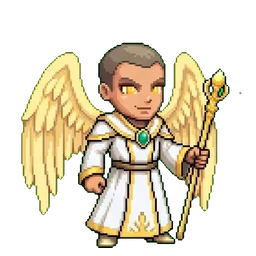
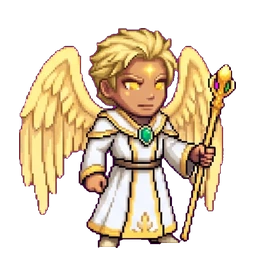
Celestial erkek Cleric ID1-6 ve ID8 kabul edilen sayfadan yeniden kesildi; yeniden çizilmiş sayfanın bütün hücreleri kesilir (cc-kesim tum_hucreler, test); taç karakter ekranında kırpılmaz
- cc-kesim.py: defterde yenidenCizilmis işaretli sayfa kuralı, adımlar 'yeniden' ve 'hucre', defter UTF-8/LF
- hale-konum.json yalnız erkek Cleric kayıtları (yeni saç yüksekliği); karakter-kucuk ad listesi alır
- CharacterFigure çerçevesi yıldız tacını kapsar (crownBox); as1cGorunum testine taç kutusu denetimi eklendi
- gorsel-dokum --grup sonrası --yeniden bütün grupları kullanır; döküm ve Celestial denetim raporu güncel (0 eski kesim)

diff --git a/src/data/ccKesimYenidenCizilmis.test.ts b/src/data/ccKesimYenidenCizilmis.test.ts
@@ -1,0 +1,37 @@
+/**
+ * 2026-11-22: yeniden çizilmiş (kullanıcının kabul ettiği güncel çizim) ham sayfanın BÜTÜN hücreleri oyunda o sayfadan kesilmiş olmalı
+ * (kesim defteri `data/cc-kesim-kaynak.json` `yenidenCizilmis`). Kısmi kesim tuzağı: `clerik-male-celestial.jpg`'den 2026-11-19'da
+ * yalnız hücre 7 ve 9 kesildi ("halesiz-temiz dokunulmaz"), kalan 7 hücre eski çizimde (kahverengi saç, yıldızsız) kaldı. Kesicideki
+ * kural `scripts/cc-kesim.py` `tum_hucreler` (kısmi listeyi uyarıyla tamamlar), yalnız eksik hücreler için adım `yeniden`.
+ * Denetim raporu: harita/belgeler/CELESTIAL-KAYNAK-DENETIM.md (`python scripts/celestial-kaynak-denetim.py`).
+ */
+import { describe, expect, it } from 'vitest';
+import defter from '../../data/cc-kesim-kaynak.json';
+import kesimSrc from '../../scripts/cc-kesim.py?raw';
+
+type Spec = { sinif: string; irk: string; cinsiyet: string; kod: string; hucre: number };
+const D = defter as unknown as { yenidenCizilmis?: Record<string, Spec>; jetonlar: Record<string, { kazanan?: { kaynak: string; dosya: string; hucre: number } }> };
+/** Jeton dosya adları (yalnız ad; görsel yüklenmez). */
+const files = new Set(Object.keys(import.meta.glob('../../public/characters/*.webp')).map((p) => p.split('/').pop()));
+
+describe('yeniden çizilmiş ham sayfalar: bütün hücreler kesilir', () => {
+  const sayfalar = Object.entries(D.yenidenCizilmis ?? {});
+  it('defterde işaretli sayfa var (Celestial erkek Cleric)', () => {
+    expect(sayfalar.map(([f]) => f)).toContain('clerik-male-celestial.jpg');
+  });
+  it('her işaretli sayfanın bütün hücreleri oyunda o sayfadan (kesim defteri kazananı) ve dosyası var', () => {
+    for (const [f, s] of sayfalar) {
+      expect(s.hucre, f).toBeGreaterThan(0);
+      for (let n = 1; n <= s.hucre; n++) {
+        const name = `${s.irk}-${s.cinsiyet}-${s.sinif}-${s.kod}${n}`;
+        expect(D.jetonlar[name]?.kazanan, `${f} hücre ${n} → ${name}`).toMatchObject({ dosya: f, hucre: n });
+        expect(files.has(`${name}.webp`), name).toBe(true);
+      }
+    }
+  });
+  it('kesici yeniden çizilmiş sayfada kısmi hücre listesini tamamlar (diger adımı tum_hucreler üstünden)', () => {
+    expect(kesimSrc).toMatch(/def tum_hucreler\(/);
+    expect(kesimSrc).toContain('cells = tum_hucreler(f, cells, len(names), rep, L)');
+    expect(kesimSrc).toMatch(/'yeniden': lambda: yeniden\(/);
+  });
+});

diff --git a/src/ui/as1cGorunum.test.tsx b/src/ui/as1cGorunum.test.tsx
@@ -8,6 +8,7 @@ import sharp from 'sharp';
 import { AvatarCircle, CharacterFigure, TokenFigure } from './Avatar';
 import { hasSubclassWing, lineageLook, skinTint, wingBox, wingSlotOfSubclass } from './lineageLook';
 import { tintPixels } from './tint';
+import { crownBox, crownSpec } from './haloCrown';
 import { lineageTint, sheetAvatar } from '../battle/avatar';
 import { blankCharacter } from '../rules/builder';
 import { rgbToLab } from './color';
@@ -259,6 +260,20 @@ describe('KG1: karakter ekranı jetonu savaşla aynı çizim yolu, çerçevesiz'
     const vb = /viewBox="(-?[\d.]+) (-?[\d.]+) ([\d.]+) ([\d.]+)"/.exec(m)!.slice(1).map(Number) as [number, number, number, number];
     expect(vb[0]).toBeLessThanOrEqual(wb.x); expect(vb[1]).toBeLessThanOrEqual(wb.y);
     expect(vb[0] + vb[2]).toBeGreaterThanOrEqual(wb.x + wb.width); expect(vb[1] + vb[3]).toBeGreaterThanOrEqual(wb.y + wb.height);
+  });
+  it('Celestial yıldız tacı çerçeveden taşmaz (yüksek saçlı erkek Cleric ID3: taç jeton kutusunun üstünde, SVG kutusu kapsar)', () => {
+    const sh = sheet({ raceId: 'celestial', classId: 'cleric', subclassId: 'imza_birlik', level: 9, gender: 'erkek' });
+    const av = sheetAvatar(sh);
+    expect(av.src).toBe('characters/celestial-erkek-cleric-ID3.webp');
+    const c = crownSpec(av.src, av.look)!;
+    expect(c).toBeTruthy();
+    const b = crownBox(c), k = 48 / 256;
+    expect(b.y0).toBeLessThan(0);
+    const m = fig(sh);
+    expect(m).toContain('star-crown-g');
+    const vb = /viewBox="(-?[\d.]+) (-?[\d.]+) ([\d.]+) ([\d.]+)"/.exec(m)!.slice(1).map(Number) as [number, number, number, number];
+    expect(vb[1]).toBeLessThanOrEqual(b.y0 * k);
+    expect(vb[0]).toBeLessThanOrEqual(b.x0 * k); expect(vb[0] + vb[2]).toBeGreaterThanOrEqual(b.x1 * k);
   });
   it('kanatsız karakter de aynı çerçevesiz yol: kanat katmanı yok, jeton görseli var', () => {
     const m = fig(sheet({ raceId: 'human', classId: 'fighter' }));

diff --git a/src/ui/Avatar.tsx b/src/ui/Avatar.tsx
@@ -7,7 +7,7 @@ import { useContext, useEffect, useState, type CSSProperties } from 'react';
 import { FOOT_FRAC, TOKEN_SPACE, lineageLook, placementBounds, placementTransform, wingBox, wingPlacements, type WingLayerSpec, type WingPalet, type WingRoot } from './lineageLook';
 import { LookContext } from './lookContext';
 import { wingRoot } from './wingRoot';
-import { crownSpec, type CrownSpec } from './haloCrown';
+import { crownBox, crownSpec, type CrownSpec } from './haloCrown';
 import { StarCrownLayer, StarCrownShape } from './StarCrown';
 import { useWingAnim } from './wingAnim';
 import { WingFilterDefs } from './WingFilter';
@@ -292,9 +292,11 @@ export function CharacterFigure(props: { avatar: AvatarData; size: number; title
   useWingData();
   const lk = avatar.look ? lineageLook(avatar.look, { ability: true }) : null;
   const wb = lk?.wing && !ownWingToken(lk.wing, avatar.src) ? wingExtent(lk.wing, size) : null;
+  // Celestial yıldız tacı başın üstüne taşar (yüksek saç/şapkada jeton kutusunun dışına): çerçeve onu da kapsar, kırpılmaz.
+  const cs = crownSpec(avatar.src, avatar.look); const cb = cs ? crownBox(cs) : null; const k = size / 256;
   const pad = Math.max(2, size * 0.06);
-  const x0 = Math.min(0, wb?.x ?? 0) - pad, y0 = Math.min(0, wb?.y ?? 0) - pad;
-  const x1 = Math.max(size, wb ? wb.x + wb.width : 0) + pad, y1 = Math.max(size, wb ? wb.y + wb.height : 0) + pad;
+  const x0 = Math.min(0, wb?.x ?? 0, cb ? cb.x0 * k : 0) - pad, y0 = Math.min(0, wb?.y ?? 0, cb ? cb.y0 * k : 0) - pad;
+  const x1 = Math.max(size, wb ? wb.x + wb.width : 0, cb ? cb.x1 * k : 0) + pad, y1 = Math.max(size, wb ? wb.y + wb.height : 0) + pad;
   return (
     <svg className="char-figure" width={x1 - x0} height={y1 - y0} viewBox={`${x0} ${y0} ${x1 - x0} ${y1 - y0}`} role="img" aria-label={props.title ?? avatar.label}
       style={{ '--fig-w': `${x1 - x0}px` } as CSSProperties}>

diff --git a/src/ui/haloCrown.ts b/src/ui/haloCrown.ts
@@ -27,6 +27,21 @@ export function crownKey(name: string): string | null {
   return `${m[2]}-${g}${m[3] === 'GR' ? '-gr' : m[3] ? '' : '-genel'}`;
 }
 
+/**
+ * Taç çiziminin (`StarCrownShape`) başın üst noktasından uzanımı, yerel birimde (× `CROWN_K` × `olcek` = jeton 256 uzayı): yukarı 18
+ * (merkez sparkle y −12, r 6), yana 21 (en dış küçük yıldız x ±19, r 2). Çizim değişirse burası da.
+ */
+export const CROWN_REACH = { up: 18, side: 21 } as const;
+
+/**
+ * Tacın jeton 256 uzayındaki kutusu (yansıtılmış jetonda x aynalanır: iki yön birden kapsanır). Karakter ekranı çerçevesi
+ * (`CharacterFigure`) tacı kırpmasın diye; savaş jetonunda taç zaten kutu dışına taşabilir.
+ */
+export function crownBox(c: CrownSpec): { x0: number; x1: number; y0: number } {
+  const up = CROWN_REACH.up * CROWN_K * c.olcek, side = CROWN_REACH.side * CROWN_K * c.olcek;
+  return { x0: Math.min(c.x, 256 - c.x) - side, x1: Math.max(c.x, 256 - c.x) + side, y0: c.y - up };
+}
+
 export function crownSpec(src: string | null | undefined, look: LookSheet | undefined | null): CrownSpec | null {
   if (!look || look.raceId !== 'celestial') return null;
   const name = nameOf(src);

diff --git a/scripts/gorsel-dokum.ts b/scripts/gorsel-dokum.ts
@@ -108,7 +108,9 @@ async function collect(): Promise<Ham> {
   if (!ONLY && !SCAN_ONLY && !RESUME && existsSync(OUT)) rmSync(OUT, { recursive: true, force: true });
   mkdirSync(`${OUT}/kucuk`, { recursive: true });
   mkdirSync(`${OUT}/ham`, { recursive: true });
-  writeFileSync(`${OUT}/ham/_meta.json`, JSON.stringify({ tarih: new Date().toISOString(), commit: git('git rev-parse --short HEAD'), meta, groups }));
+  // Kayıtta BÜTÜN gruplar (`--grup` ile tek grup yenilense de): `--yeniden` öteki grupların eski kayıtlarıyla tam raporu üretir.
+  const allGroups = [...new Set(meta.pages.map((p) => p.grup))];
+  writeFileSync(`${OUT}/ham/_meta.json`, JSON.stringify({ tarih: new Date().toISOString(), commit: git('git rev-parse --short HEAD'), meta, groups: allGroups }));
 
   type IsDurum = { ok?: unknown; hata?: string };
   /** Sayfa içi işi başlatır ve ilerlemeyi izler: `STALL_MS` boyunca ilerleme yoksa takıldı sayılır (grup yeniden denenir). */

diff --git a/scripts/cc-kesim.py b/scripts/cc-kesim.py
@@ -5,6 +5,11 @@
   python3 scripts/cc-kesim.py yeni       # 2) Gladyatör (champion, fighter ID12) + Warlock sayfaları
   python3 scripts/cc-kesim.py duzeltme   # 3) hale düzeltme sayfaları 01–03 (kesin yetkili)
   python3 scripts/cc-kesim.py diger      # C) Bard, Sorcerer, Druid, Barbarian aurasız, Cleric, Human Fighter
+  python3 scripts/cc-kesim.py yeniden <sayfa> [--hucre 1,2,...]   # yeniden çizilmiş (kabul edilen) tam sınıf sayfasından hücreler
+  python3 scripts/cc-kesim.py hucre <sayfa> <sınıf düzeni> <hücre> <jeton>   # tek hücre yeniden kesimi (eski jetonun yerleşimiyle)
+Yeniden çizilmiş sayfa kuralı (2026-11-22): defterde `yenidenCizilmis` altında işaretli sayfa yalnız hale düzeltmesi değil, kabul edilen
+güncel çizimdir; BÜTÜN hücreleri kesilir ("halesiz-temiz dokunulmaz" bu sayfalara uygulanmaz; `tum_hucreler` kısmi listeyi uyarıyla
+tamamlar; test src/data/ccKesimYenidenCizilmis.test.ts). Ham klasör `CC_HAM` ortam değişkeniyle değiştirilebilir.
 Öncelik kuralı (aynı jeton kimliği): düzeltme > yeni sayfa > taban (`ONCELIK`). Defter data/cc-kesim-kaynak.json her yazımı kaydeder;
 daha düşük öncelikli bir adım, daha yüksek öncelikli kaynağın yazdığı jetonu ezmez (adımlar hangi sırayla çalışırsa çalışsın).
 Çıktı: public/characters/<ad>.webp (+ kucuk/ 96 px), kontak sayfaları docs/sabah/cc-kesim/, rapor docs/sabah/cc-kesim/<adım>.json."""
@@ -14,7 +19,7 @@ from PIL import Image, ImageDraw
 from scipy import ndimage as ndi
 
 _s = importlib.util.spec_from_file_location('tk', 'scripts/toplu-kesim.py'); tk = importlib.util.module_from_spec(_s); _s.loader.exec_module(tk)
-RAW = 'assets-ham/karakter'
+RAW = os.environ.get('CC_HAM', 'assets-ham/karakter')
 KURU = os.environ.get('CC_KURU')   # deneme: çıktılar bu klasöre, defter ve belgeler de oraya
 OUT = f'{KURU}/characters' if KURU else 'public/characters'
 DOC = f'{KURU}/doc' if KURU else 'docs/sabah/cc-kesim'
@@ -26,7 +31,7 @@ GREEN, MAGENTA = np.array([0, 255, 0], float), np.array([255, 0, 255], float)
 
 # ---------------------------------------------------------------------------------------------------------------- defter ve yazım
 def ledger():
-    return json.load(open(LEDGER)) if os.path.exists(LEDGER) else {'_not': 'scripts/cc-kesim.py: jeton kimliği → yazan kaynak geçmişi; öncelik düzeltme > yeni sayfa > taban.', 'jetonlar': {}}
+    return json.load(open(LEDGER, encoding='utf-8')) if os.path.exists(LEDGER) else {'_not': 'scripts/cc-kesim.py: jeton kimliği → yazan kaynak geçmişi; öncelik düzeltme > yeni sayfa > taban.', 'jetonlar': {}}
 
 def write_token(L, name, img, kaynak, dosya, hucre, rep):
     """Öncelik kuralı: kayıtlı kaynağın önceliği bu adımınkinden yüksekse yazmaz (çakışma raporlanır)."""
@@ -42,7 +47,8 @@ def write_token(L, name, img, kaynak, dosya, hucre, rep):
     rep['yazilan'].append(name); return True
 
 def save_ledger(L):
-    json.dump(L, open(LEDGER, 'w'), ensure_ascii=False, indent=1); open(LEDGER, 'a').write('\n')
+    # Windows: varsayılan kodlama cp1254; defter UTF-8 okunup yazılır.
+    json.dump(L, open(LEDGER, 'w', encoding='utf-8', newline='\n'), ensure_ascii=False, indent=1); open(LEDGER, 'a', encoding='utf-8', newline='\n').write('\n')
 
 def git_token(ref, name):
     r = subprocess.run(['git', 'show', f'{ref}:public/characters/{name}.webp'], capture_output=True)
@@ -55,7 +61,7 @@ TAC_YOK = {'celestial-erkek-warlock-WL-8': 'Gulyabani: altın teller olduğu gib
 
 def hold_sync(L):
     if KURU: return
-    hh = json.load(open('data/hale-halesiz.json')); he = json.load(open('data/hale-elle.json'))
+    hh = json.load(open('data/hale-halesiz.json', encoding='utf-8')); he = json.load(open('data/hale-elle.json', encoding='utf-8'))
     free = {n for n, j in L['jetonlar'].items() if n.startswith('celestial-') and j.get('kazanan')}
     keep = [n for n in hh['bekleyen'] if n not in free or n in TAC_YOK]
     for n, why in TAC_YOK.items():
@@ -64,7 +70,7 @@ def hold_sync(L):
     hh['bekleyen'] = sorted(keep)
     he['bekleyen'] = {k: v for k, v in sorted(he['bekleyen'].items()) if k in keep}
     for f, d in (('data/hale-halesiz.json', hh), ('data/hale-elle.json', he)):
-        json.dump(d, open(f, 'w'), ensure_ascii=False, indent=1); open(f, 'a').write('\n')
+        json.dump(d, open(f, 'w', encoding='utf-8', newline='\n'), ensure_ascii=False, indent=1); open(f, 'a', encoding='utf-8', newline='\n').write('\n')
 
 # ---------------------------------------------------------------------------------------------------------------- anahtar
 def key_page(a):
@@ -422,6 +428,60 @@ def oncelik_rapor(L):
     lines += ['', f'Tek kaynaktan yazılan Celestial jeton: {tek}.']
     open('docs/sabah/celestial-oncelik.md', 'w').write('\n'.join(lines) + '\n')
 
+# ---------------------------------------------------------------------------------------------------------------- yeniden çizilmiş sayfalar
+def yeniden_cizilmis(L=None):
+    """Defterdeki `yenidenCizilmis`: ham sayfa → {sinif, irk, cinsiyet, kod, hucre (sayısı), not}."""
+    return (L or ledger()).get('yenidenCizilmis', {})
+
+def tum_hucreler(f, cells, n_cells, rep, L=None):
+    """Yeniden çizilmiş sayfada kısmi hücre listesi tuzaktır (2026-11-22: clerik-male-celestial yalnız 7 ve 9 kesildi, 7 hücre eski kaldı):
+    bütün hücreler döner, kısmi istek uyarı olarak raporlanır."""
+    if f not in yeniden_cizilmis(L): return list(cells)
+    full = list(range(1, n_cells + 1))
+    if sorted(cells) != full:
+        msg = f'UYARI {f}: yeniden çizilmiş (kabul edilen) sayfa; kısmi hücre listesi {sorted(cells)} yerine bütün hücreler {full}'
+        print(msg); rep.setdefault('uyari', []).append(msg)
+    return full
+
+def yeniden(argv):
+    """Yeniden çizilmiş tam sınıf sayfasından hücreler, `diger` ile aynı hat (sayfa ölçeği `sheet_scale`, `tk.render`). Yalnız istenen hücreler
+    (`--hucre`; verilmezse defterde bu sayfadan henüz yazılmamış hücrelerin hepsi). Belge/kontak sayfası yazmaz (docs/sabah'a dokunmaz);
+    defter ve taç bekleme listesi (`hold_sync`) güncellenir."""
+    if not argv: sys.exit('kullanım: cc-kesim.py yeniden <sayfa> [--hucre 1,2,...]')
+    f = argv[0]; L = ledger(); spec = yeniden_cizilmis(L).get(f)
+    if not spec: sys.exit(f'{f}: defterde yenidenCizilmis kaydı yok (data/cc-kesim-kaynak.json)')
+    cls, race, g, kod, n_cells = spec['sinif'], spec['irk'], spec['cinsiyet'], spec['kod'], spec['hucre']
+    name_of = lambda n: f'{race}-{g}-{cls}-{kod}{n}'
+    if '--hucre' in argv: cells = [int(x) for x in argv[argv.index('--hucre') + 1].split(',')]
+    else: cells = [n for n in range(1, n_cells + 1) if (L['jetonlar'].get(name_of(n), {}).get('kazanan') or {}).get('dosya') != f]
+    rep = {'adim': 'yeniden', 'sayfa': f, 'istenen': cells, 'yazilan': [], 'ezilmedi': [], 'uyari': []}
+    comps = tk.components_of_sheet(f'{RAW}/{f}', cls)
+    scale, ok = sheet_scale(comps, cls)
+    for n in cells:
+        if n not in ok: rep['uyari'].append(f'{f} hücre {n}: figür yok ya da ELLE, uygulanmadı'); continue
+        rgba = ok[n][0]; sc = scale if tk.TALL.get(cls) != n else min(tk.FIG_H / rgba.shape[0], (SIZE - 4) / rgba.shape[1])
+        tok, nh, shifted = tk.render(rgba, tk.bbox(rgba), sc, rgba.shape[1] / 2)
+        write_token(L, name_of(n), Image.fromarray(np.array(tok), 'RGBA'), 'diger', f, n, rep)
+    save_ledger(L); hold_sync(L)
+    return rep
+
+def hucre(argv):
+    """Tek hücre yeniden kesimi (kesim kusuru düzeltmesi): `hucre <sayfa> <sınıf düzeni> <hücre> <jeton>`. Hücre toplu kesimin kendi
+    ayıklamasıyla (`tk.components_of_sheet`), yerleşim ESKİ jetonla aynı (alt gövde hizası `align_or_height`: boy ve konum korunur).
+    Kaynak `duzeltme` (öncelikli); belge/kontak sayfası yazmaz. Örnek (2026-11-22, kabza/bilek yarığı, `trim_lines` düzeltmesi sonrası):
+    python scripts/cc-kesim.py hucre gariban-male-human.jpg gariban 5 human-erkek-fighter-GR"""
+    if len(argv) < 4: sys.exit('kullanım: cc-kesim.py hucre <sayfa> <sınıf düzeni> <hücre> <jeton>')
+    f, cls, n, name = argv[0], argv[1], int(argv[2]), argv[3]
+    L = ledger(); rep = {'adim': 'hucre', 'yazilan': [], 'ezilmedi': [], 'uyari': []}
+    comps = tk.components_of_sheet(f'{RAW}/{f}', cls)
+    if n not in comps: sys.exit(f'{f}: hücre {n} bulunamadı')
+    rgba, bb, warn = comps[n]
+    if any(x.startswith('ELLE') for x in warn): rep['uyari'] += warn
+    tok = align_or_height(rgba, name, rep)
+    write_token(L, name, Image.fromarray(np.array(tok), 'RGBA'), 'duzeltme', f, n, rep)
+    save_ledger(L)
+    return rep
+
 # ---------------------------------------------------------------------------------------------------------------- C) diğer düzeltme sayfaları
 def cut_bodies(path, want, near=0.55):
     """Gövde + kopuk parçalar (hokkabaz bıçağı, kitap, taş, ay): en büyük `want` bileşen gövde; ≥ 25 px diğer parçalar en yakın gövdeye
@@ -604,13 +664,15 @@ def diger():
                 if nm_: rep['uyari'].append(f'{name}: ay parıltısı kalıntısı {nm_} px silindi')
             put('sorcerer', name, align_or_height(rgba, name, rep), f, i)
     # 3) tam sınıf sayfasından tek hücre (özgün hat ve sayfa ölçeği): Druid Tiefling hücre 4, Cleric erkek Tiefling hücre 9,
-    #    Celestial erkek Cleric (hale-gemini sayfa 06'nın yeniden yapılmışı; yalnız haleli hücreler 7 ve 9, halesiz-temiz dokunulmaz)
+    #    Celestial erkek Cleric (hale-gemini sayfa 06'nın yeniden çizilmiş, kabul edilen hâli: BÜTÜN hücreler; 2026-11-19'da yalnız 7 ve 9
+    #    kesilmişti ("halesiz-temiz dokunulmaz"), kalan 7 hücre eski çizimde kalmıştı; kural `tum_hucreler`, defter `yenidenCizilmis`)
     for f, cls, cells, race, g in [('druid-female-tiefling.jpg', 'druid', [4], 'tiefling', 'kadin'), ('druid-male-tiefling.jpg', 'druid', [4], 'tiefling', 'erkek'),
                                    ('cleric-male-tiefling.jpg', 'cleric', [9], 'tiefling', 'erkek'), ('clerik-male-celestial.jpg', 'cleric', [7, 9], 'celestial', 'erkek'),
                                    ('fighter-male-human.jpg', 'fighter', list(range(1, 12)), 'human', 'erkek'), ('fighter-female-human.jpg', 'fighter', list(range(1, 11)), 'human', 'kadin')]:
         comps = tk.components_of_sheet(f'{RAW}/{f}', cls)
         scale, ok = sheet_scale(comps, cls)
         names = tk.CLASSES[cls][3]
+        cells = tum_hucreler(f, cells, len(names), rep, L)
         pr = {'dosya': f, 'beklenen_hucre': len(names), 'bulunan': sorted(comps), 'elle': [(n, v[2][0]) for n, v in comps.items() if any(x.startswith('ELLE') for x in v[2])], 'yazilan_hucre': []}
         for n in cells:
             if n not in ok: rep['uyari'].append(f'{f} hücre {n}: figür yok ya da ELLE, uygulanmadı'); continue
@@ -673,7 +735,8 @@ def tek():
 if __name__ == '__main__':
     os.makedirs(f'{OUT}/kucuk', exist_ok=True)
     step = sys.argv[1] if len(sys.argv) > 1 else ''
-    fn = {'taban': taban, 'yeni': yeni, 'duzeltme': duzeltme, 'diger': diger, 'tek': tek, 'gladyator-onizleme': lambda: (gladyator_onizleme(), {'tamam': 1})[1]}.get(step)
+    fn = {'taban': taban, 'yeni': yeni, 'duzeltme': duzeltme, 'diger': diger, 'tek': tek, 'yeniden': lambda: yeniden(sys.argv[2:]), 'hucre': lambda: hucre(sys.argv[2:]),
+          'gladyator-onizleme': lambda: (gladyator_onizleme(), {'tamam': 1})[1]}.get(step)
     if not fn: sys.exit(__doc__)
     r = fn()
     print({k: (len(v) if isinstance(v, (list, dict)) else v) for k, v in r.items()})

diff --git a/scripts/celestial-kaynak-denetim.py b/scripts/celestial-kaynak-denetim.py
@@ -301,7 +301,7 @@ L = ['# Celestial jeton kaynak denetimi', '',
      'Oyundaki jeton en yeni kaynağa değil de eskisine daha yakınsa **ESKİ KESİM**. Ölçünün işaretleyip göz denetiminde aynı çizim çıkanlar '
      '"güncel (göz denetimi)" (gerekçe tabloda).', '',
      '## Özet', '', '| Sonuç | Jeton |', '|---|---:|'] + [f'| {k} | {v} |' for k, v in sorted(cnt.items())] + ['',
-     f'**Eski kesimde kalan: {len(eski)}**: ' + ', '.join(f"`{r['f']}`" for r in eski) + '.', '']
+     (f'**Eski kesimde kalan: {len(eski)}**: ' + ', '.join(f"`{r['f']}`" for r in eski) + '.' if eski else '**Eski kesimde kalan: 0.**'), '']
 L += ['## Cleric erkek: clerik-male-celestial.jpg (kabul edilen son çizim, 3×3)', '',
       'Hücre → jeton: Cleric alt sınıf eşlemesinden (`data/cleric-jeton.json`, hücre adları `data/jeton-hucre-sirasi.json`): '
       '1 Yaşam (life-domain, kullanılmıyor), 2 Aydın, 3 Birlik Manastırı 3–16, 4 Demirci, 5 Fırtına, 6 Mezar, 7 Savaş, 8 Yakamoz, 9 Birlik Manastırı 17+. '
@@ -320,7 +320,13 @@ L += ['', 'Görsel: `gorsel-dokum/celestial-kaynak/cleric-erkek-9-hucre.png` (es
       '**Kök neden:** `scripts/cc-kesim.py` `diger` adımı (commit 456a7d6d "… Celestial Cleric 2") bu sayfadan yalnız hücre 7 ve 9\'u kesti; '
       'koddaki gerekçe (satır 607): "hale-gemini sayfa 06\'nın yeniden yapılmışı; yalnız haleli hücreler 7 ve 9, halesiz-temiz dokunulmaz". '
       'Sayfa yalnız hale için değil Celestial başı (kısa dikenli sarı saç, altın göz, alında yıldız) için yeniden çizilmişti; "halesiz-temiz" '
-      'sayılan 7 hücre (ID1–ID6, ID8) hiç kesilmedi, oyunda 2026-11-17 d58f314f\'teki eski kesim duruyor.', '']
+      'sayılan 7 hücre (ID1–ID6, ID8) hiç kesilmedi, oyunda 2026-11-17 d58f314f\'teki eski kesim kalmıştı.', '']
+duz = [r for r in cl if (r['led'] or {}).get('dosya') == 'clerik-male-celestial.jpg']
+if len(duz) == len(cl):
+    L += ['**Düzeltme (2026-11-22, kullanıcı onayı):** `PYTHONUTF8=1 CC_HAM=<ham klasör> python scripts/cc-kesim.py yeniden clerik-male-celestial.jpg` '
+          'eksik 7 hücreyi aynı hat ve sayfa ölçeğiyle kesti; 9 hücrenin hepsi bu sayfadan. Eski dosyalar `public/characters/_yedek-celestial-2026-11-22/` '
+          '(depo dışı). Kural: defterde `yenidenCizilmis` işaretli sayfanın bütün hücreleri kesilir (`cc-kesim.py` `tum_hucreler`, '
+          'test `src/data/ccKesimYenidenCizilmis.test.ts`). Önceki hâlin görseli `gorsel-dokum/celestial-kaynak/cleric-erkek-9-hucre-once.png`.', '']
 L += ['## Kesim sırası denetimi', '',
       'Git sırası (`public/characters/celestial-*`, hepsi 2026-11-19): fd1fc974 adım 1 taban (hale sayfaları, 15:01) → bf3f183b adım 2 yeni '
       '(Gladyatör + Warlock, 15:11) → 09f2ec04 adım 3 hale düzeltme 01–03 (15:14) → 456a7d6d C diğer (5\'li Bard, Sorcerer düzeltme, '

diff --git a/DECISIONS.md b/DECISIONS.md
@@ -2,6 +2,27 @@
 
 Projede alınan içerik ve kural kararlarının kaydı. En yeni karar en üstte.
 
+## Celestial erkek Cleric yeniden kesimi ve "yeniden çizilmiş sayfa" kuralı (2026-11-22; yalnız görünüm, kural/kayıt sürümü değişmedi)
+
+- **Bulgu** (`harita/belgeler/CELESTIAL-KAYNAK-DENETIM.md`, `python scripts/celestial-kaynak-denetim.py`): 290 Celestial jetonun 7'si eski
+  çizimde kalmıştı: erkek Cleric ID1–ID6, ID8 (kahverengi kısa saç, alında yıldız yok). Kabul edilen son çizim `clerik-male-celestial.jpg`
+  (hale-gemini sayfa 06'nın yeniden çizilmişi: kısa dikenli sarı saç, altın göz, alında yıldız); `scripts/cc-kesim.py` `diger` adımı
+  (456a7d6d) bu sayfadan yalnız 7 ve 9'u kesmişti ("halesiz-temiz dokunulmaz"). Kalan 283 jeton en yeni kaynağıyla aynı; kesim sırası
+  (taban → Gladyatör/Warlock → hale düzeltme 01–03 → C) doğru, git ile defter 290'ında tutarlı. Erkek Wizard WZ-A7…B7 karşılaştırılamadı
+  (ham `hale-gemini-sayfa-30.png` yok).
+- **Düzeltme (kullanıcı onayı):** `cc-kesim.py yeniden clerik-male-celestial.jpg` 7 hücreyi aynı hat ve sayfa ölçeğiyle kesti
+  (eski dosyalar `public/characters/_yedek-celestial-2026-11-22/`, gitignore). Rozetler `npm run karakter-kucuk -- <ad>…` (betik artık
+  ad listesi alır; tam çalıştırma bütün küçük kopyaları yeniden yazar). Taç konumu `python scripts/hale-konum.py` (yalnız erkek Cleric
+  kayıtları değişti). Celestial soy boyası yok: maske gerekmez.
+- **Kural:** defterde (`data/cc-kesim-kaynak.json`) `yenidenCizilmis` işaretli ham sayfa kabul edilen güncel çizimdir, bütün hücreleri
+  kesilir; `tum_hucreler` kısmi listeyi uyarıyla tamamlar. Test `src/data/ccKesimYenidenCizilmis.test.ts` (her işaretli sayfanın
+  bütün hücreleri oyunda o sayfadan).
+- **Taç kırpılması:** yüksek saçta taç jeton kutusunun üstüne taşıyor, karakter ekranı çerçevesi (`CharacterFigure`) onu kırpıyordu;
+  çerçeve artık taç kutusunu da kapsar (`haloCrown.ts` `crownBox`, `CROWN_REACH`). Test `src/ui/as1cGorunum.test.tsx`.
+- **Not:** `npm run soy-maske` tam çalıştırması bu makinede ilgisiz dosyaları değiştiriyor (Goliath `bas/` kaplamaları siliniyor,
+  14 Dragonborn ve 4 Goliath/Tiefling maskesi yeniden yazılıyor; yerelde ham girdiler eksik). Bu değişiklikler alınmadı.
+- Windows: `cc-kesim.py`/`toplu-kesim.py` `PYTHONUTF8=1` ile çalıştırılır (defter UTF-8, LF).
+
 ## Görev GORSEL-DUZELTME: portre, cinsiyet değişimi, Human maskeleri, maskesiz soylar için yedek filtre (2026-11-22; yalnız görünüm, kural/kayıt sürümü değişmedi)
 
 Girdi `harita/belgeler/GORSEL-DOKUM.md` (08f71831). Ölçüm yeniden `npm run gorsel-dokum` ile (rapor güncel).

diff --git a/harita/belgeler/GORSEL-DOKUM.md b/harita/belgeler/GORSEL-DOKUM.md
@@ -1,6 +1,6 @@
 # Görsel döküm (seçilebilir bütün karakter görünüşleri)
 
-Üretim: `npm run gorsel-dokum` (2026-11-22, commit f29ac526 + çalışma ağacındaki GORSEL-DUZELTME değişiklikleri; duvar saati 22812 sn, makine kanat ile durum grubu arasında uykuya geçti, etkin süre ≈ 16 dk). Bu dosyadaki bütün sayılar o çalıştırmadan; elle yazılmaz, betik yeniden yazar.
+Üretim: `npm run gorsel-dokum` (2026-11-22, commit a8195c8f, süre (yeniden üretim)). Bu dosyadaki bütün sayılar o çalıştırmadan; elle yazılmaz, betik yeniden yazar.
 
 Araç: `scripts/gorsel-dokum.ts` (Playwright + Vite, `check:harita` altyapısı) → `/onizleme-dokum.html` (`src/preview/gorselDokum.tsx`; yalnız geliştirme sunucusu, build girdisi değil). Çizim oyunun kendi bileşenleriyle: `CharacterFigure` (karakter listesi kartı / sihirbaz önizlemesi), `LookFrame` + `AvatarBadge` (savaş çekmecesi 56 px, sıra şeridi 30 px: küçük kopya), `AvatarBadge` 84 (karakter sayfası portresi), `AvatarCircle` → `TokenFigure` (savaş jetonu; `tokenFilters`/`filterStyle`, `tokenScale`, `TOKEN_R`, `hexPoints`). Jeton, boya, maske, kafa kaplaması, kanat ve taç `sheetAvatar` → `lineageLook`/`tintedUrl`/`crownSpec` çözücülerinden; kopya çizici yok. Savaş jetonunun `.token` sarmalayıcısı `MapBattle.tsx`'teki jeton grubunun aynısıdır (dışa aktarılmış bileşen yok); öfke alevleri ve döngü efekt sprite'ları çizilmez.
 
